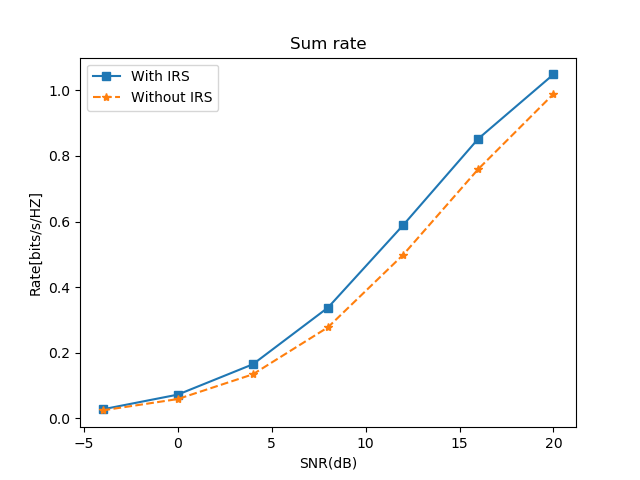
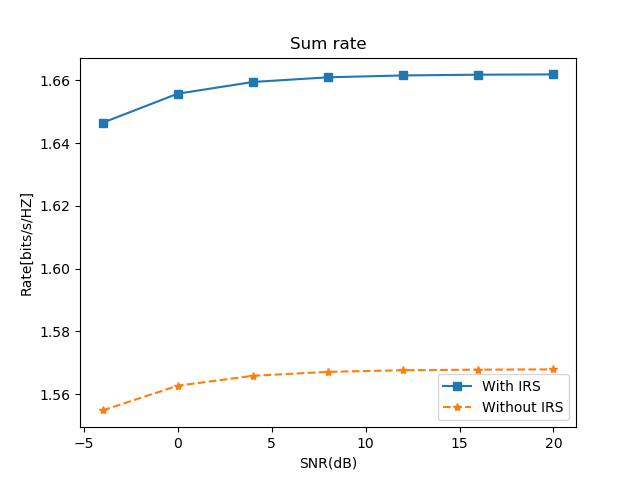
Update simulation figures

diff --git a/main.py b/main.py
@@ -24,7 +24,7 @@ def create_simulations():
             (0, 0, 0),  # BS position
             N,  # IRS elements
             (0, 21, 0),  # IRS position
-            -40,  # sigma^2 dB
+            -80,  # sigma^2 dB
             SNR_db,  # SNR dB
             -20,  # c0 dB
             2.7,  # alpha bs-irs
